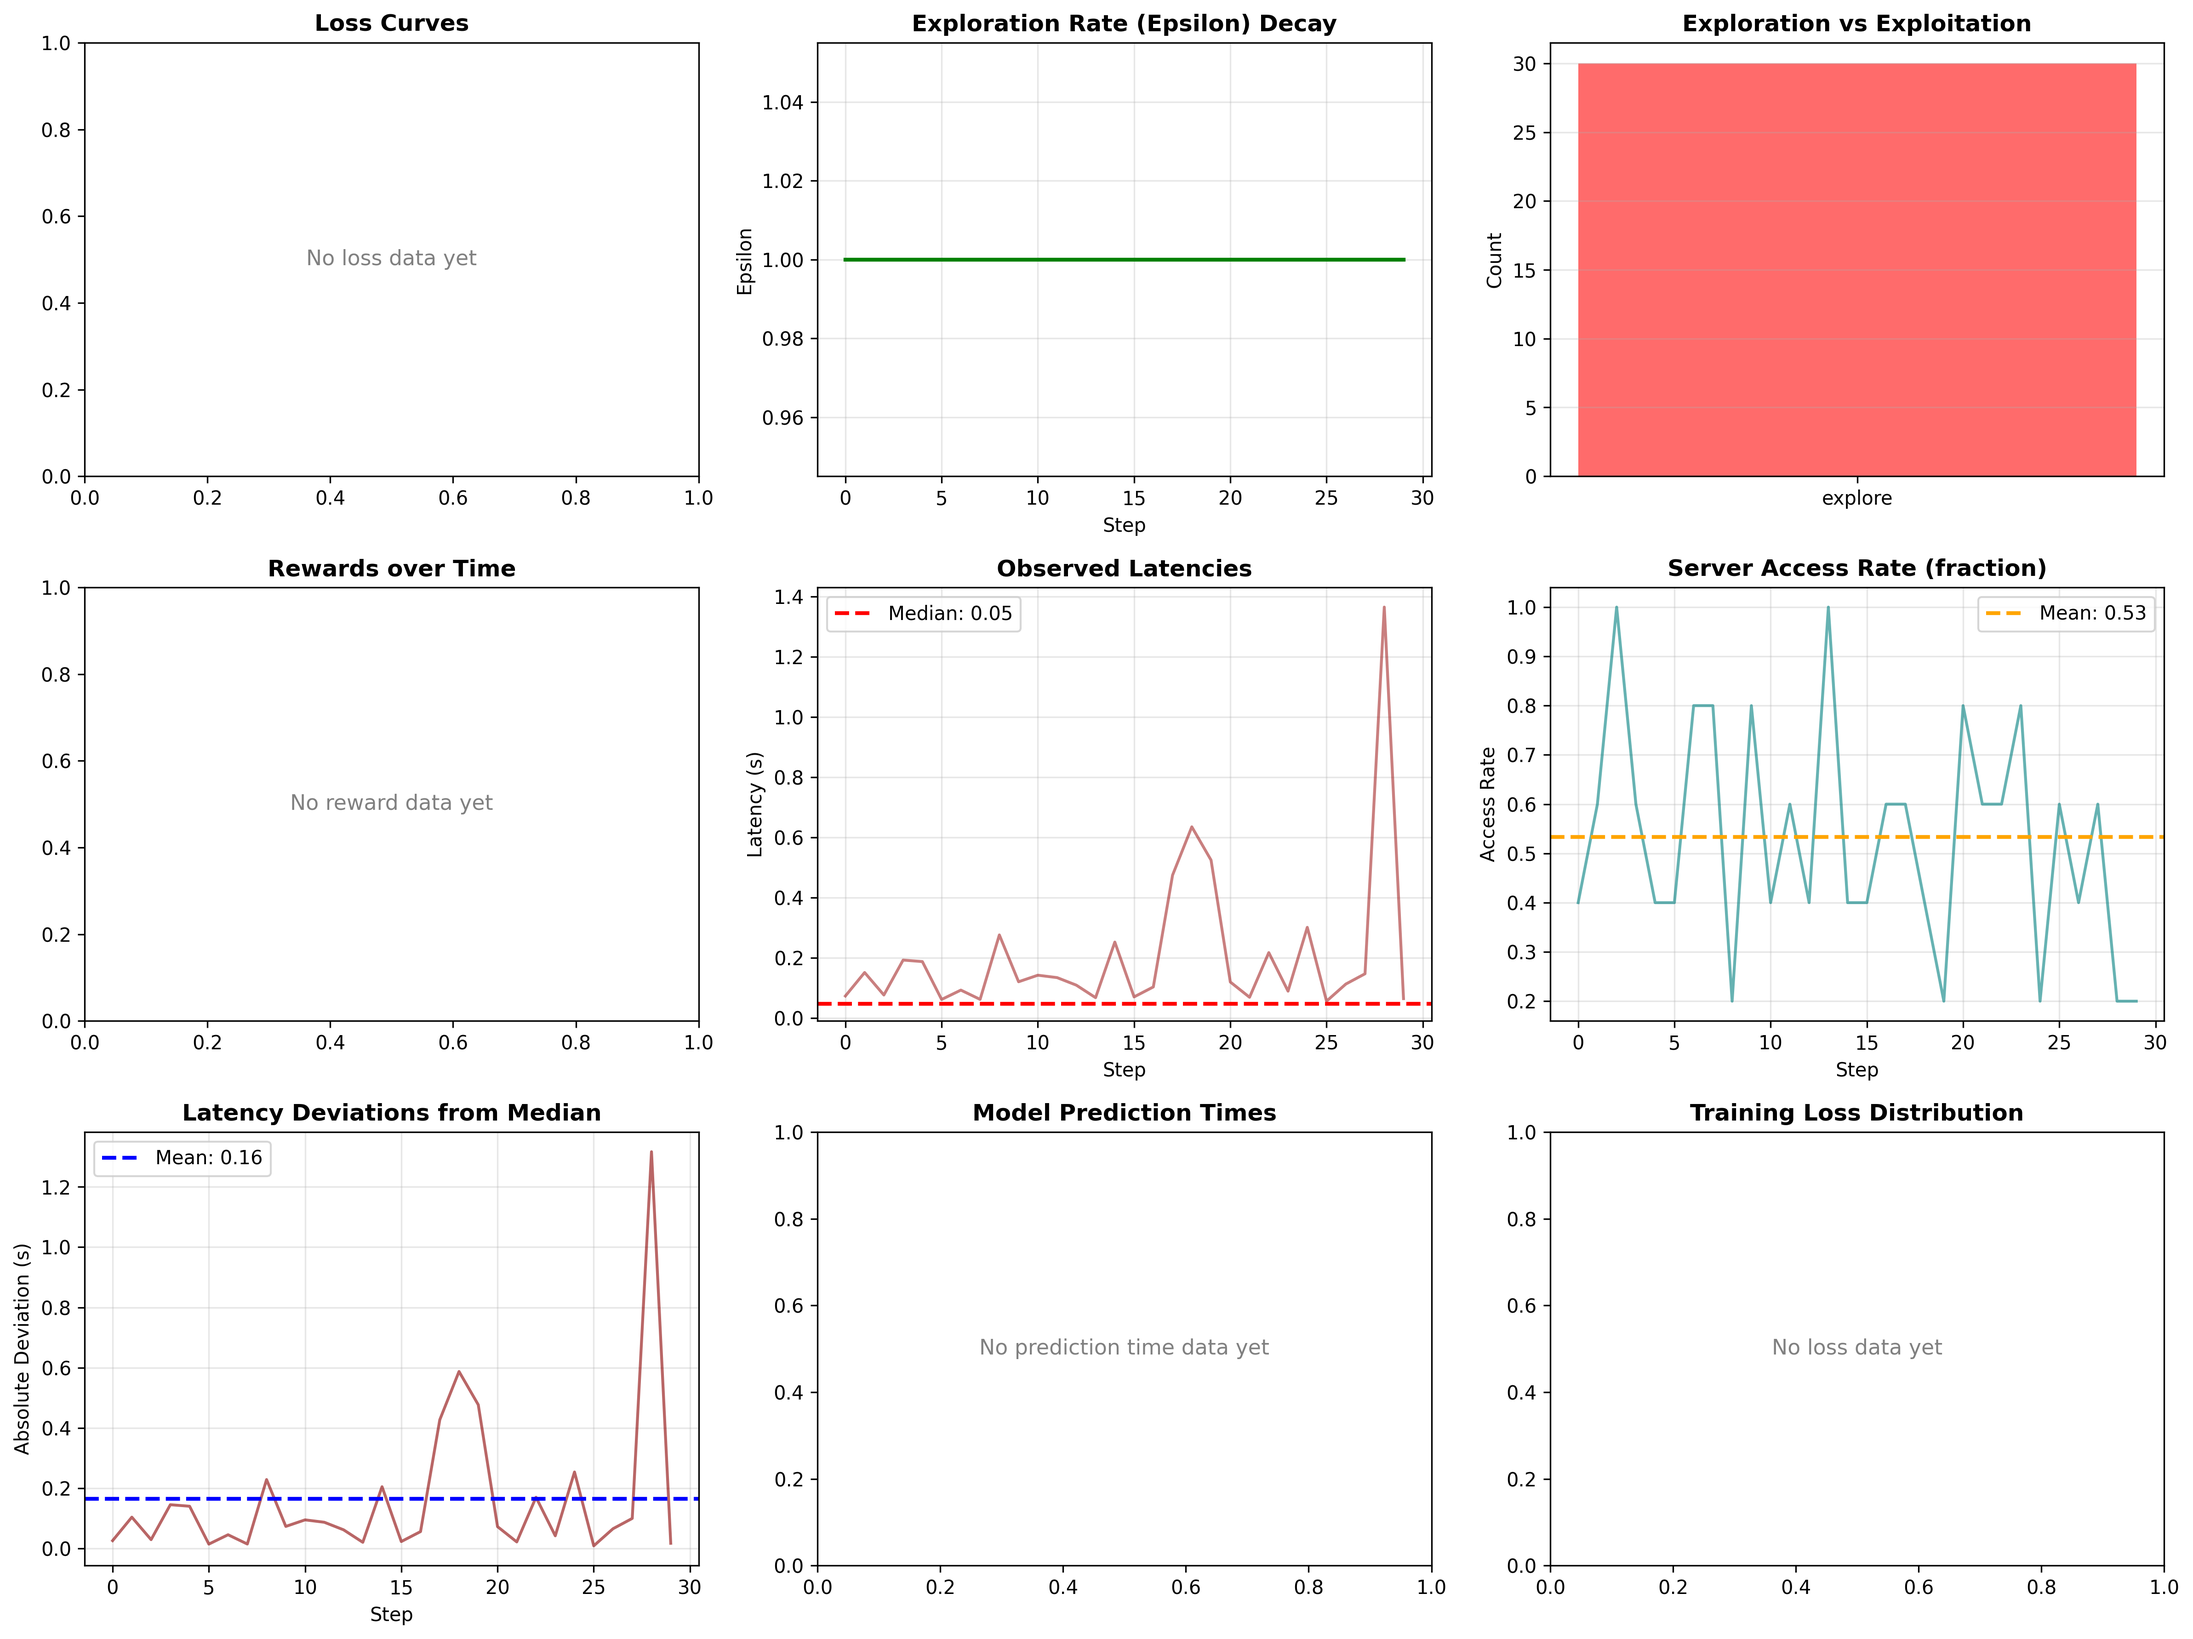
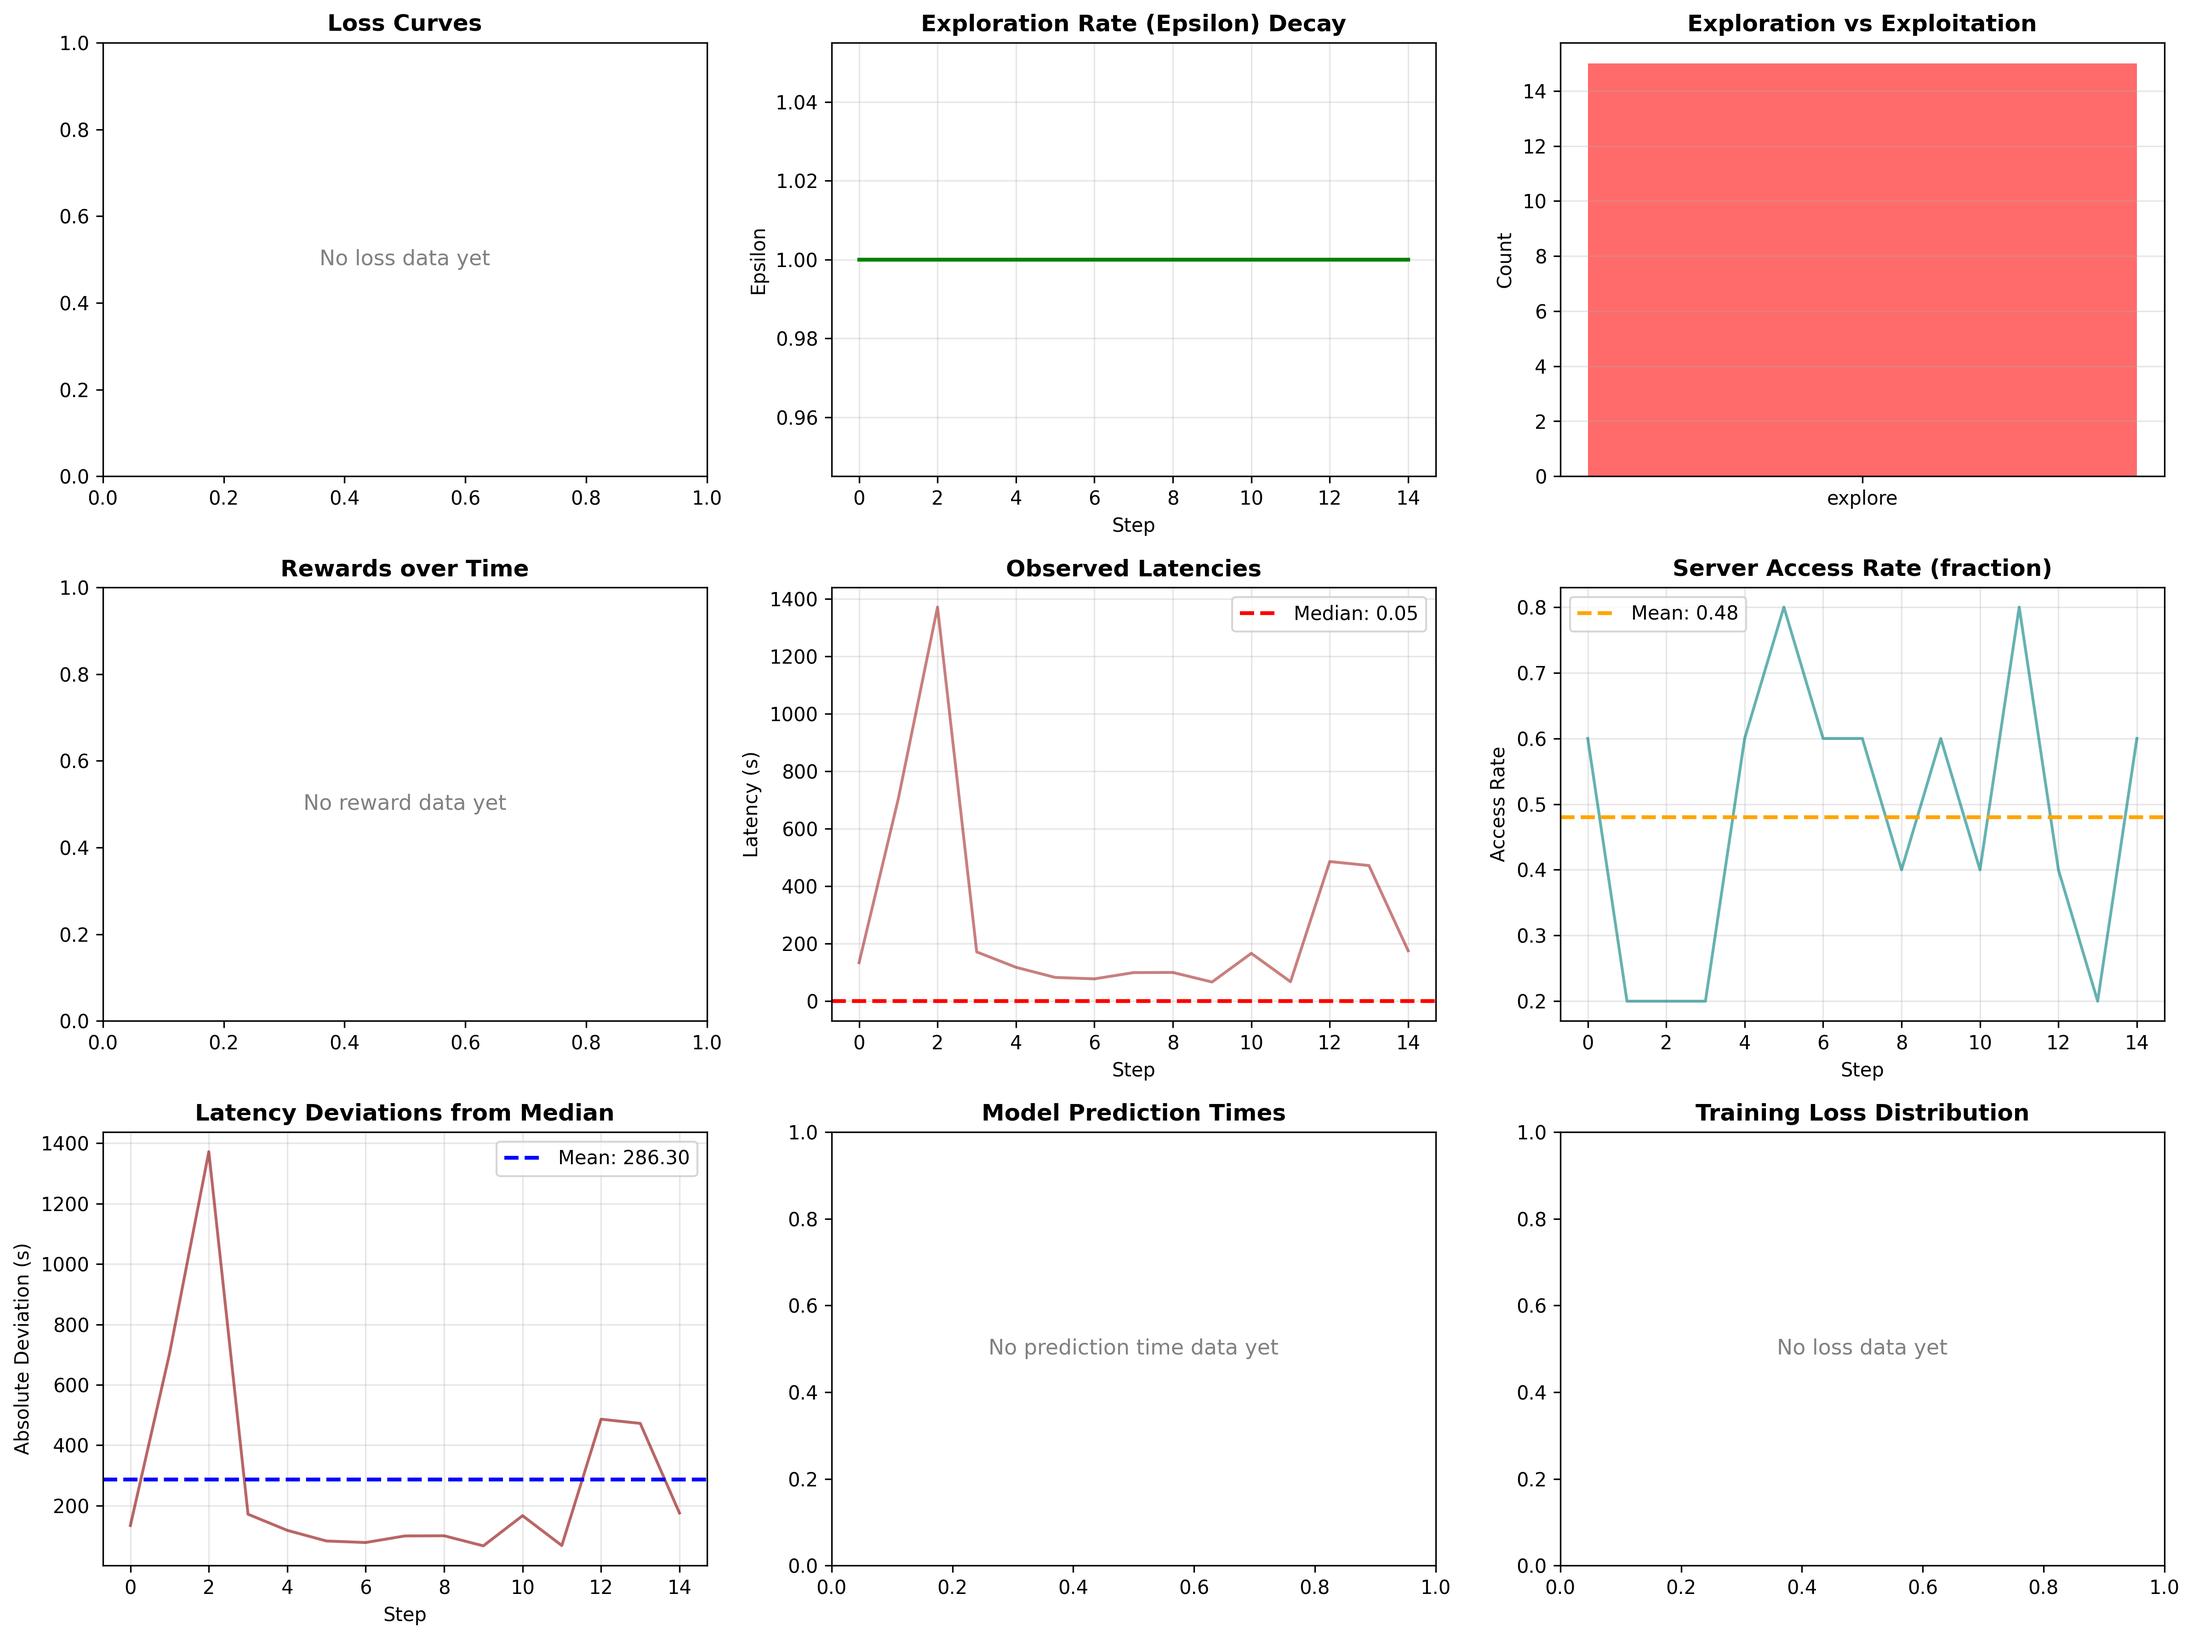
changed hyperparameters

diff --git a/src/constants.py b/src/constants.py
@@ -1,17 +1,15 @@
 no_of_sensors = 1
 max_bandwidth = 20
 median_computation_delay = 0.048
-total_no_request = 5000
-chunk_size = 10
+total_no_request = 100
+chunk_size = 5
 no_of_chunk= int(total_no_request/chunk_size)
-episode_size = 3
+episode_size = 2
 no_of_burst = 500
 no_of_episodes = int(no_of_chunk/episode_size)
-len_of_episode = 50
 max_load = 5 # make it 20
 beta = 5 # Number of edge servers.
 alpha = 0.005 # Reward scaling factor.
-learning_rate =  0.0001
 learning_rate =  1e-05
 discount_rate = 0.9
 gamma_decay = 1.8e-04
